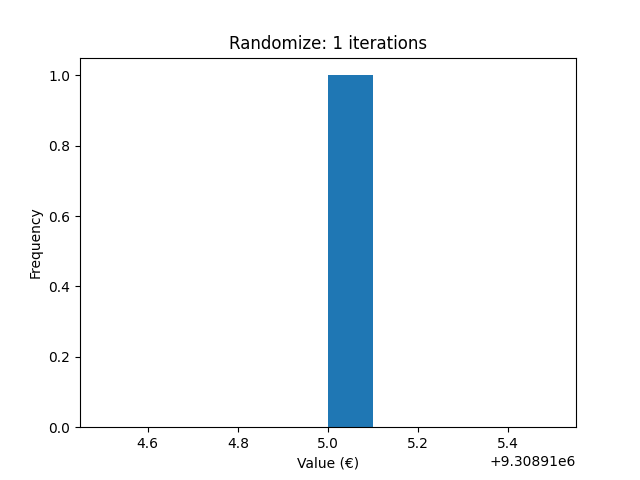
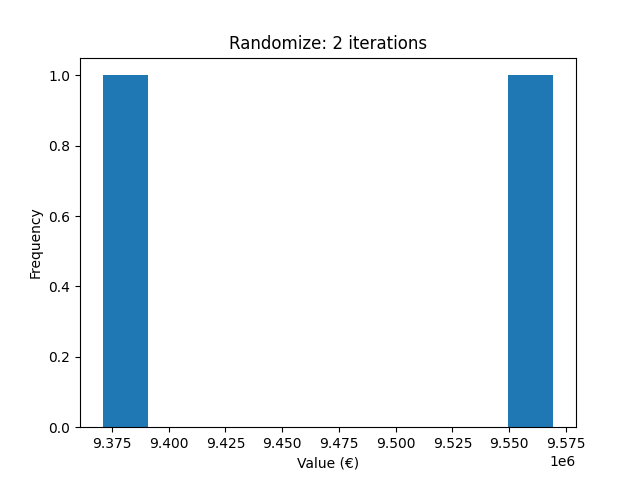
Added return statements to implementation functions in main

Changed region(s): [[0.5938, 0.1562, 0.9062, 0.9688], [0.125, 0.1562, 0.4688, 0.9375], [0.5, 0.1562, 0.5938, 0.9375]]

diff --git a/main.py b/main.py
@@ -42,6 +42,8 @@ def implement_random(grid, iterations, map_name, quantity):
 	# Visualize map and create output file for best result 
 	vis.visualize(randomize.best_grid, map_name, quantity, "randomize")
 	randomize.best_grid.create_output(map_name, quantity, "randomize")
+
+	return randomize.best_grid
 	
 def implement_greedy(grid, map_name, quantity, gr_type):
 	"""
@@ -57,6 +59,8 @@ def implement_greedy(grid, map_name, quantity, gr_type):
 	vis.visualize(greedy.grid, map_name, quantity, f"greedy_{gr_type}")
 	greedy.grid.create_output(map_name, quantity, f"greedy_{gr_type}")
 
+	return greedy.grid
+
 def implement_hill_climber(grid, map_name, quantity, start_state, hc_type):
 	"""
 	Runs a specified number of iterations of hillclimber algorithm on
@@ -67,15 +71,17 @@ def implement_hill_climber(grid, map_name, quantity, start_state, hc_type):
 	"""
 	if start_state == "greedy":
 		# Run greedy algorithm on grid with type that user specified
-		starting_grid = gr.Greedy(grid)
-		starting_grid.run(gr_type="strategy")
+		greedy = gr.Greedy(grid)
+		greedy.run(gr_type="strategy")
+		starting_grid = greedy.grid
 	else:
 		# Run randomize algorithm on grid as often as user specified
-		starting_grid = rz.Randomize(grid)
-		starting_grid.run(iterations=1000)
+		randomize = rz.Randomize(grid)
+		randomize.run(iterations=5)
+		starting_grid = randomize.best_grid
 	
-	hillclimber = hc.HillClimber(starting_grid.best_grid)
-	hillclimber.run(iterations=2000, hc_type=hc_type)
+	hillclimber = hc.HillClimber(starting_grid)
+	hillclimber.run(iterations=5, hc_type=hc_type)
 
 	# Create histogram of all results
 	vis.iteration_plot(hillclimber.all_values, map_name, quantity, hc_type, start_state)
@@ -83,6 +89,8 @@ def implement_hill_climber(grid, map_name, quantity, start_state, hc_type):
 	# Visualize map and create output file for best result
 	vis.visualize(hillclimber.grid, map_name, quantity, f"{start_state}_hillclimber_{hc_type}")
 	hillclimber.grid.create_output(map_name, quantity, f"{start_state}_hillclimber_{hc_type}")
+
+	return hillclimber.grid
 
 if __name__ == "__main__":
 	
@@ -107,7 +115,7 @@ if __name__ == "__main__":
 			else:
 				print("Invalid input: Please enter an integer that is equal to or bigger than 1")
 
-		best_grid = implement_random(grid, int(iterations), map_name, quantity)
+		result = implement_random(grid, int(iterations), map_name, quantity)
 	elif algorithm in ["greedy", "gr"]:
 		# Prompt for type of greedy algorithm until user provides valid input
 		while True:
@@ -123,7 +131,7 @@ if __name__ == "__main__":
 			else:
 				print("Invalid input: Please choose between 'random'/'r' and 'strategy'/'s'")
 		
-		implement_greedy(grid, map_name, quantity, gr_type)
+		result = implement_greedy(grid, map_name, quantity, gr_type)
 	elif algorithm in ["greedy_hill_climber", "gr_hc", "random_hill_climber", "r_hc"]:
 		# Prompt for type of greedy algorithm until user provides valid input
 		while True:
@@ -144,10 +152,10 @@ if __name__ == "__main__":
 		else:
 			start_state = "randomize"
 
-		implement_hill_climber(grid, map_name, quantity, start_state, hc_type)
+		result = implement_hill_climber(grid, map_name, quantity, start_state, hc_type)
 
 	# Add runtime?
-	print(f"Best result: {grid.value}\n",
+	print(f"Highest total map value: {result.value}\n",
 	f"You can find a csv file and visualizations of the results at data/output/{map_name}/{quantity}")
 
 	"""quantity = 20

diff --git a/code/algorithms/greedy.py b/code/algorithms/greedy.py
@@ -14,7 +14,6 @@ class Greedy():
 
 	def __init__(self, grid):
 		self.grid = grid
-		self.best_grid = None
 		self.value = 0
 
 	def place_first_house_randomly(self):
@@ -91,7 +90,6 @@ class Greedy():
 
 		if new_value > old_value:
 			self.value = new_value
-			self.best_grid = new_grid
 			success = True
 			
 		return success
